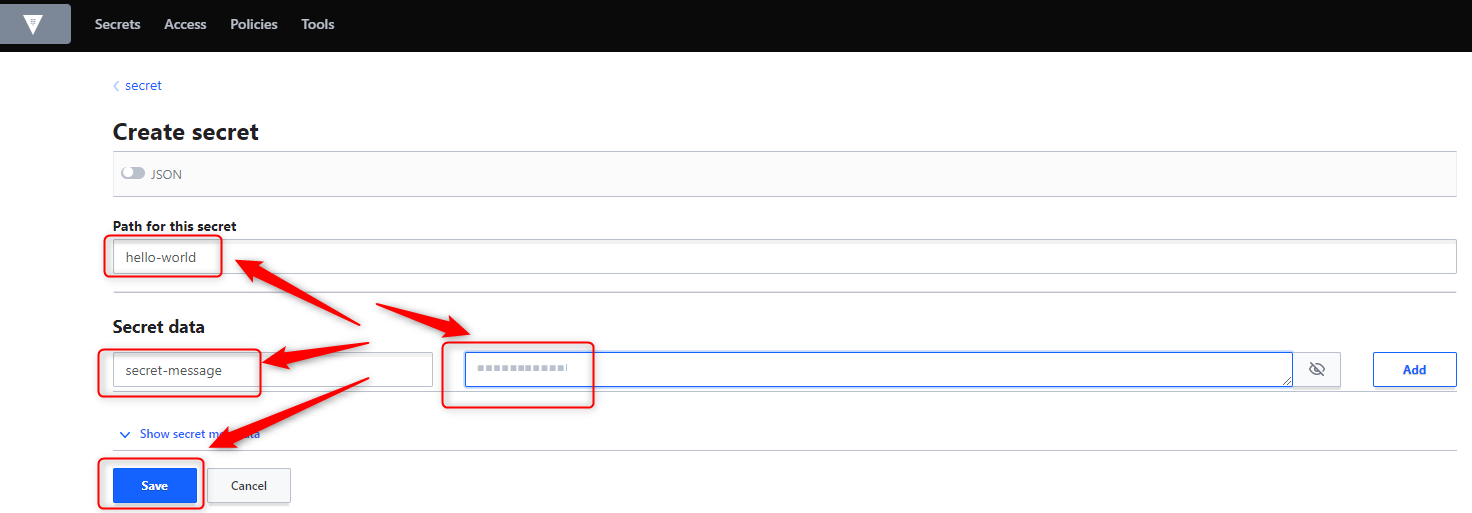
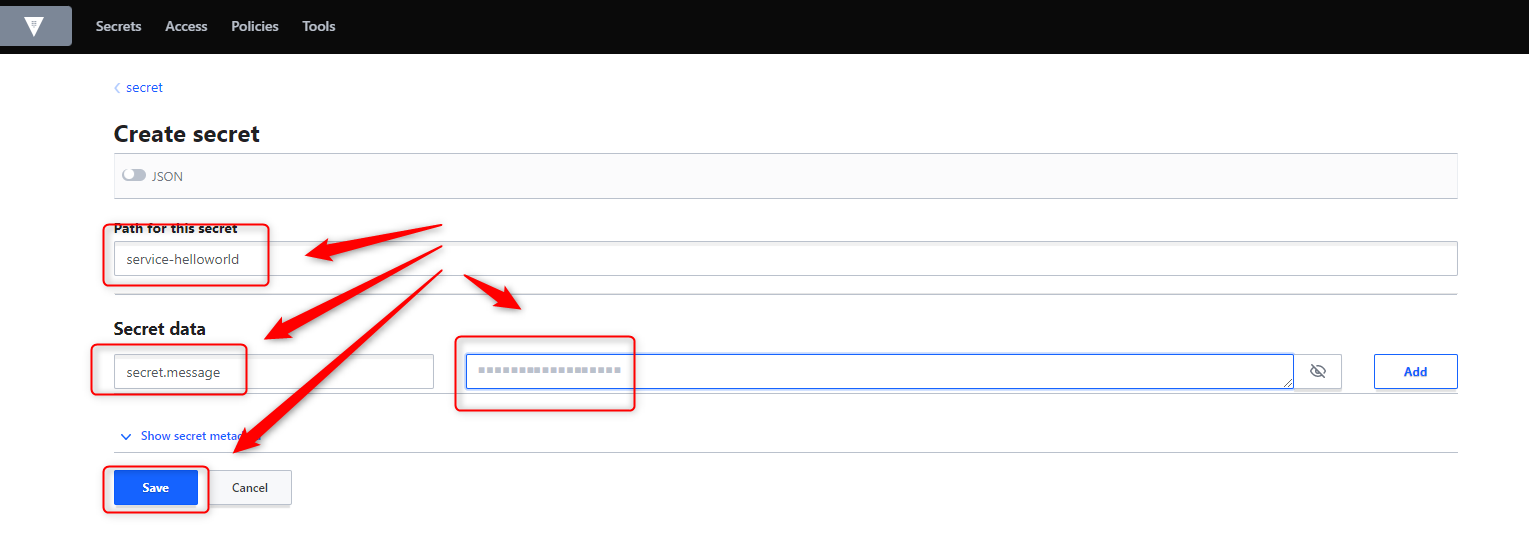
Update project springcloud-single-docker-compose-config-vault

diff --git a/other/springcloud-single-docker-compose-config-vault/README.md b/other/springcloud-single-docker-compose-config-vault/README.md
@@ -1,16 +1,16 @@
-REQUIRES LOCALLY INSTALLED JAVA AND MAVENREQUIRES LOCALLY INSTALLED JAVA AND MAVENDESCRIPTION
+DESCRIPTION
 -----------
 
 ##### Goal
-The goal of this project is to present how to implement **microservices** using **Java** programming language and **Spring Boot Cloud** framework. This project consists of few microservices implemented as independent **Maven modules**. In the system there is only one custom service - Service HelloWorld. This service is run as two instances to present load balancing usage. The rest of services in the system are provided by Spring Boot Cloud and they are used for system management.
+The goal of this project is to present how to implement **microservices** in **Java** programming language with usage **Spring Boot Cloud** framework which will use **Vault** tool to store secrets.
 
-All services are dockerized and manged by docker orchestration tool **docker compose**. It means that user does not have to start up manually all services one by one. It's done automatically by orchestration tool. 
+**Vault** enables to store secrets. Spring Cloud enables to load secrets together with external configuration from Git.
 
 ##### Service
 This project consists of following services:
 * **Service Discovery**: port **8761**. This service displays list of all active services in system
 * **Service Config**: port **8888**. This service provides flexible configuration variables. These variables can be taken for instance from Github
-* **Service HelloWorld**: port **random**. Two instances of Service HelloWorld which provide JSON with message and application id
+* **Service HelloWorld**: port **8080**. Two instances of Service HelloWorld which provide JSON with message and application id
 * **Service Gateway**: port **8762**. This service redirects request from outside system to service inside system. It also takes care of load balancing
 
 ##### Flow
@@ -39,11 +39,11 @@ PRECONDITIONS
 
 ##### Preconditions - Tools
 * Installed **Operating System** (tested on Windows 10)
-* Installed **Java** (tested on version 11.0.16.1). Tool details: `https://docs.google.com/document/d/119VYxF8JIZIUSk7JjwEPNX1RVjHBGbXHBKuK_1ytJg4/edit?usp=sharing`
-* Installed **Maven** (tested on version 3.8.5). Tool details: `https://docs.google.com/document/d/1cfIMcqkWlobUfVfTLQp7ixqEcOtoTR8X6OGo3cU4maw/edit?usp=sharing`
-* Installed **Git** (tested on version 2.33.0.windows.2). Tool details: `https://docs.google.com/document/d/1Iyxy5DYfsrEZK5fxZJnYy5a1saARxd5LyMEscJKSHn0/edit?usp=sharing`
-* Installed **Docker** (tested on version 20.10.21). Tool details: `https://docs.google.com/document/d/1tKdfZIrNhTNWjlWcqUkg4lteI91EhBvaj6VDrhpnCnk/edit?usp=sharing`
-* Installed **Docker Compose** (tested on version v2.12.2). Tool details: `https://docs.google.com/document/d/1SPrCS5OS_G0je_wmcLGrX8cFv7ZkQbb5uztNc9kElS4/edit?usp=sharing`
+* Installed **Java** (tested on version 11.0.16.1)
+* Installed **Maven** (tested on version 3.8.5)
+* Installed **Git** (tested on version 2.33.0.windows.2)
+* Installed **Docker** (tested on version 20.10.21)
+* Installed **Docker Compose** (tested on version v2.12.2)
 
 ##### Preconditions - Actions
 * **Launched** Docker and Docker Compose tools on your local machine
@@ -51,39 +51,22 @@ PRECONDITIONS
 * Open any **Command Line** (for instance "Windonw PowerShell" on Windows OS) tool on **project's folder** (exact localization of project you can check in GIT repositories on page `https://github.com/wisniewskikr/chrisblog-it-cloud`)
 
 
-USAGE FAST (REQUIRES LOCALLY INSTALLED JAVA AND MAVEN)
-------------------------------------------------------
+USAGE
+-----
 
-This usage can be performed locally on developer's machine. Launching services is divided into separated two stages:
-* Building packages
-* Creating and running Docker Containers
+> NOTE: Please use **bash** command line tool. Commands for Vault **don't work** on PowerShell tool.
 
 Usage steps:
 1. Start Vault with `docker-compose -f docker-compose-vault.yml up -d`
 1. Configure Vault (please check section **Usage Vault**)
 1. Update property **spring.cloud.vault.token** in file bootstrap.properties
-1. In Command Line tool build packages with `mvn clean package -Dmaven.test.skip`
-1. In Command Line tool start services with `docker-compose -f docker-compose-fast.yml up --build`
-1. (Optional) In any browser check services list with `http://localhost:8761`
-1. In any REST Client (for instance Postman) connect with Service HelloWorld via Service Gateway with (method GET): `http://localhost:8762/service-helloworld`
-1. (Optional) In any Rest Client run following request many times to check load balancing (application id should be changed every request) (method GET): `http://localhost:8762/service-helloworld`
-1. In Command Line stop services with `ctrl + C`
-1. In Command Line remove containers with `docker-compose down`
-
-
-USAGE SLOW (DOES NOT REQUIRE LOCALLY INSTALLED JAVA AND MAVEN)
-------------------------------------------------------
-
-Usage steps:
-1. Start Vault with `docker-compose -f docker-compose-vault.yml up -d`
-1. Configure Vault (please check section **Usage Vault**)
-1. Update property **spring.cloud.vault.token** in file bootstrap.properties
-1. In Command Line tool start services with `docker-compose up --build`
-1. (Optional) In any browser check services list with `http://localhost:8761`
-1. In any REST Client (for instance Postman) connect with Service HelloWorld via Service Gateway with (method GET): `http://localhost:8762/service-helloworld`
-1. (Optional) In any Rest Client run following request many times to check load balancing (application id should be changed every request) (method GET): `http://localhost:8762/service-helloworld`
-1. In Command Line stop services with `ctrl + C`
-1. In Command Line remove containers with `docker-compose down`
+1. Build packages with `mvn clean package -D maven.test.skip`
+1. Start services with `docker-compose up -d --build`
+1. Visit: `http://localhost:8762`
+1. (Optional) Check services list with `http://localhost:8761`
+1. Clean local environment:
+     * Remove Vault with `docker-compose -f docker-compose-vault.yml down --rmi`
+     * Remove services with `docker-compose down --rmi`
 
 
 USAGE VAULT
